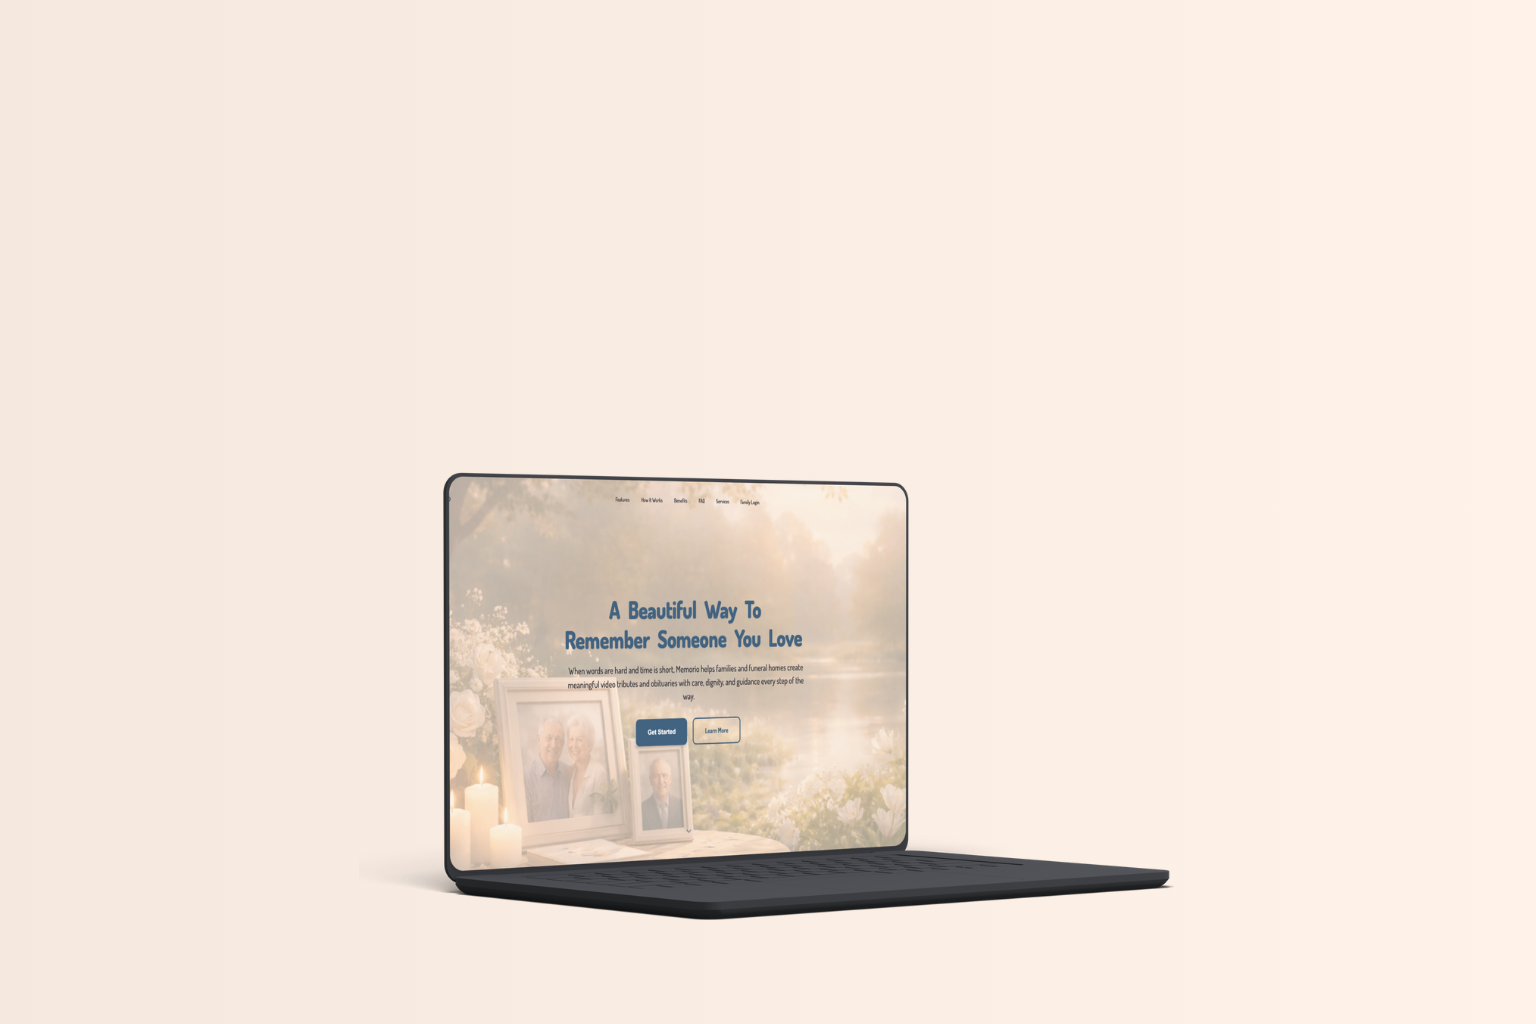
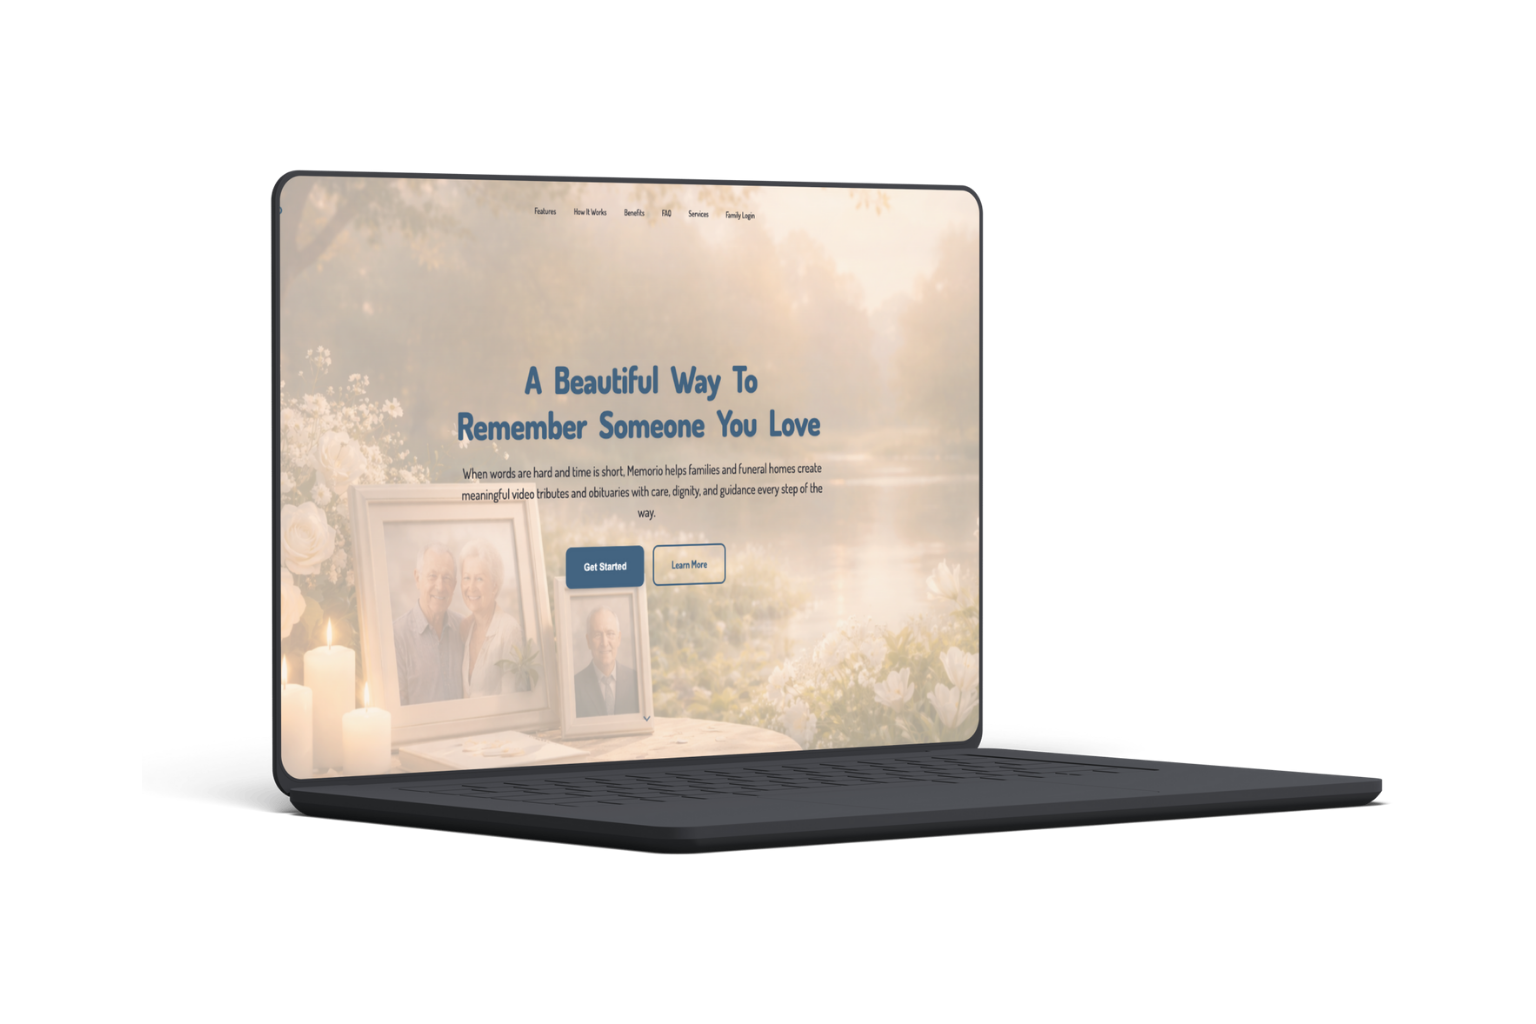
🎨 Adjust hero background settings for new services background image
UPDATE:
=======
Optimized CSS settings for the new memorio-services-background.png image
to ensure proper display and coverage.

CHANGES:
========

Background Sizing:
- Changed background-size: 100% auto → cover
- Ensures image covers entire hero area without gaps
- Better for different image aspect ratios

Background Positioning:
- Changed background-position: center top → center center
- Centers image both horizontally and vertically
- Better balance for the new image

Additional Settings:
- Added background-attachment: scroll (explicit)
- Maintains overflow: visible for full image display

Mobile:
- Updated to match desktop settings (cover, center center)

RESULT:
=======
✅ Background image optimized for new image
✅ Full coverage without gaps
✅ Centered positioning
✅ Responsive on all devices

FILES CHANGED:
==============
- services.html

diff --git a/services.html b/services.html
@@ -228,9 +228,10 @@
     .hero {
       padding: 120px 24px 100px;
       background-image: url('images/memorio-services-background.png');
-      background-size: 100% auto;
-      background-position: center top;
+      background-size: cover;
+      background-position: center center;
       background-repeat: no-repeat;
+      background-attachment: scroll;
       text-align: center;
       position: relative;
       overflow: visible;
@@ -834,7 +835,8 @@
       .hero {
         padding: 100px 24px 60px;
         min-height: 100vh;
-        background-size: 100% auto;
+        background-size: cover;
+        background-position: center center;
       }
       
       .hero-content {
